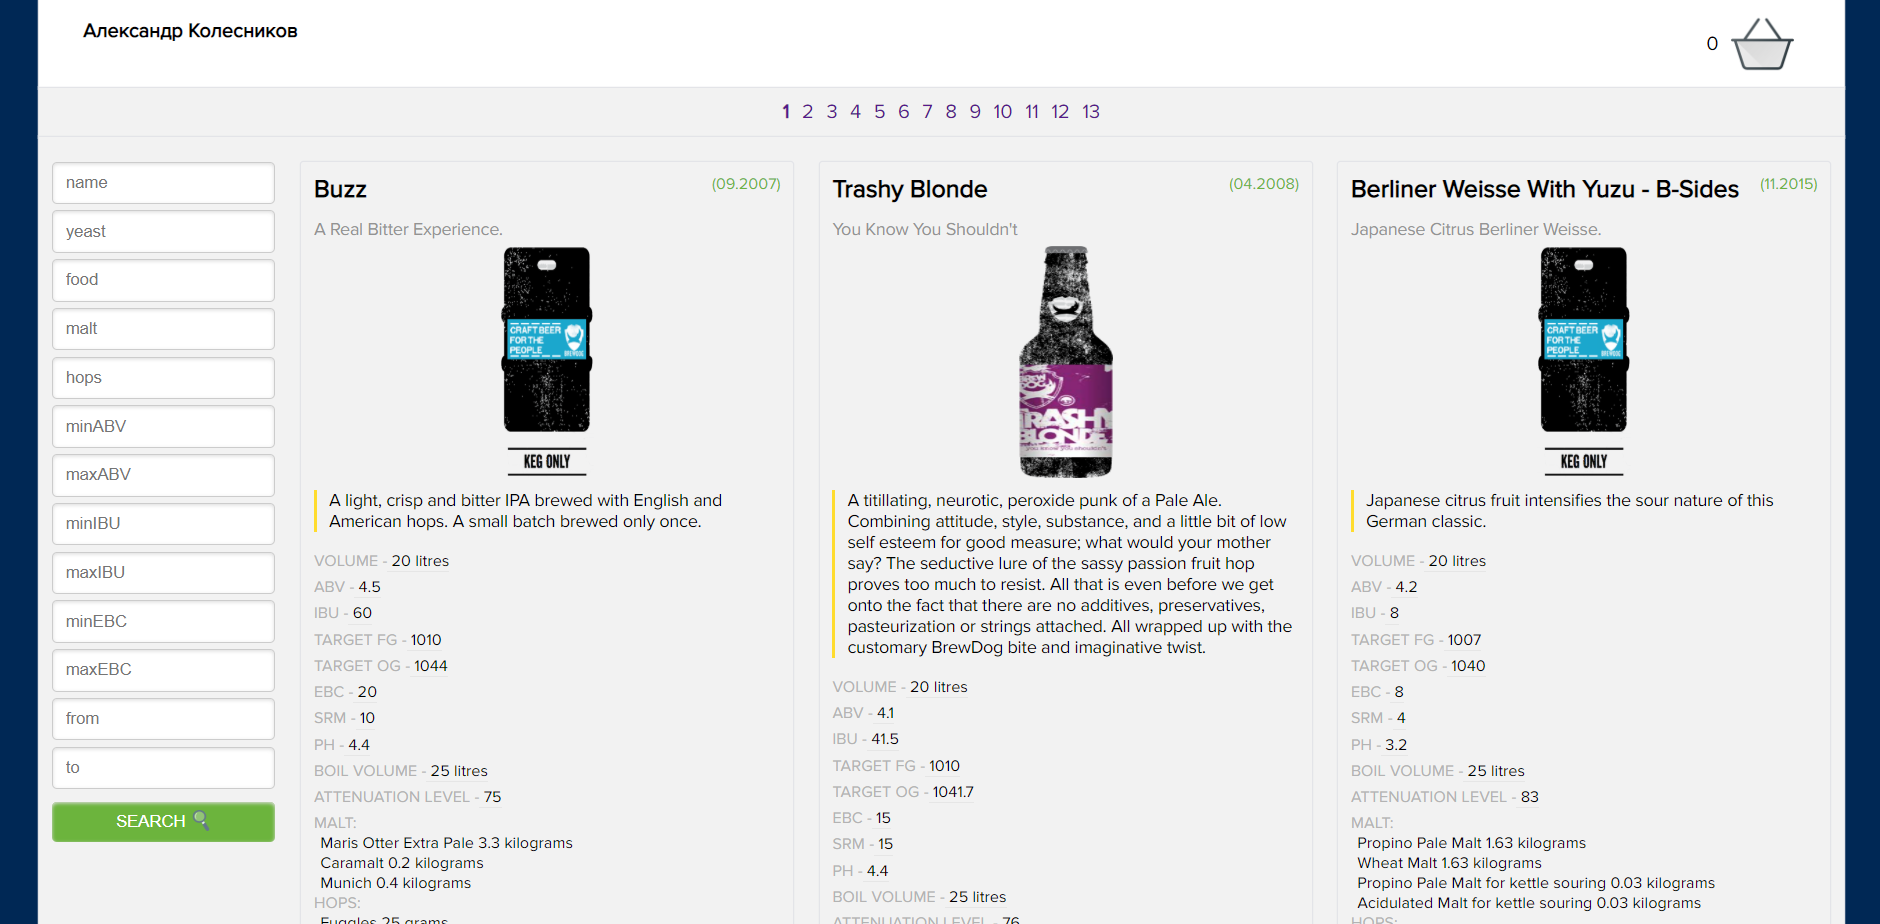
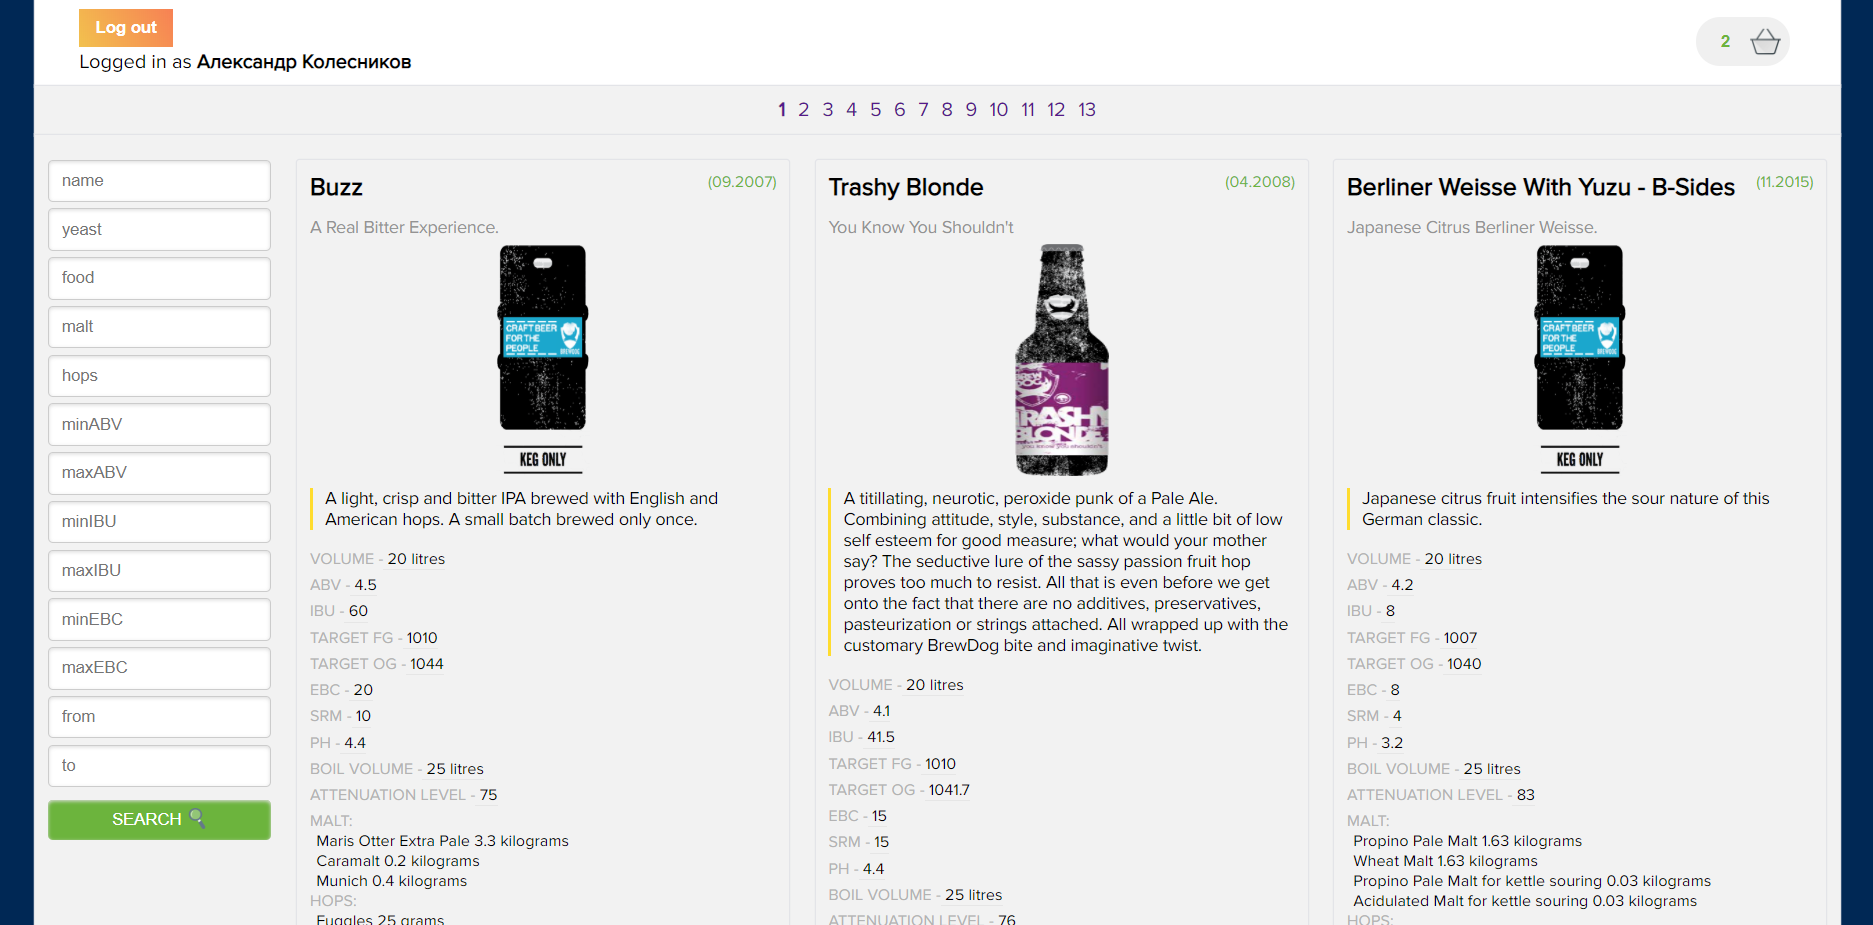
сделал возможным выход из системы

diff --git a/my-app/src/components/Navbar/NavbarContainer.tsx b/my-app/src/components/Navbar/NavbarContainer.tsx
@@ -3,7 +3,7 @@
 /* eslint-disable no-shadow */
 import React, { Component } from 'react';
 import { connect } from 'react-redux';
-import { setBasketStatusTC } from '../../redux/actions';
+import { setBasketStatusTC, logOutTC } from '../../redux/actions';
 import Navbar from './Navbar/Navbar';
 
 interface IProps {
@@ -12,12 +12,18 @@ interface IProps {
   basketList: Array<{id: number}>,
   loginStatus: boolean,
   loginName: null | string,
+  logOutTC: () => void,
 }
 
 class NavbarContainer extends Component <IProps> {
   onBasketClicked = () => {
     const { basketStatus, setBasketStatusTC } = this.props;
     setBasketStatusTC(!basketStatus);
+  }
+
+  onLogOut = () => {
+    const { logOutTC } = this.props;
+    logOutTC();
   }
 
   render() {
@@ -27,6 +33,7 @@ class NavbarContainer extends Component <IProps> {
       { length } = basketList;
     return (
       <Navbar
+        onLogOut={this.onLogOut}
         loginStatus={loginStatus}
         length={length}
         onBasketClicked={this.onBasketClicked}
@@ -46,4 +53,4 @@ const mapStateToProps = (
   loginName: name,
 });
 
-export default connect(mapStateToProps, { setBasketStatusTC })(NavbarContainer);
+export default connect(mapStateToProps, { setBasketStatusTC, logOutTC })(NavbarContainer);

diff --git a/my-app/src/redux/actions.js b/my-app/src/redux/actions.js
@@ -9,6 +9,7 @@ export const SET_CARDS_STATUS = 'SET-CARDS-STATUS',
   ADD_BASKET_PRODUCT = 'ADD-BASKET-PRODUCT',
   REMOVE_BASKET_PRODUCT = 'REMOVE-BASKET-PRODUCT',
   LOGIN = 'LOGIN',
+  LOGOUT = 'LOGOUT',
 
   setUsePageAC = (usePage) => ({ type: SET_USE_PAGE, usePage }),
   setPagesAC = (pagesList) => ({ type: SET_PAGES, pagesList }),
@@ -18,7 +19,12 @@ export const SET_CARDS_STATUS = 'SET-CARDS-STATUS',
   addBasketProductAC = (product) => ({ type: ADD_BASKET_PRODUCT, product }),
   removeBasketProductAC = (id) => ({ type: REMOVE_BASKET_PRODUCT, id }),
   loginAC = (name) => ({ type: LOGIN, name }),
+  logOutAC = () => ({ type: LOGOUT }),
 
+  logOutTC = () => async (dispatch) => {
+    localStorage.removeItem('beers-login');
+    dispatch(logOutAC());
+  },
   setBasketStatusTC = (newBasketStatus) => async (dispatch) => {
     dispatch(setBasketStatusAC(newBasketStatus));
     localStorage.setItem('basket-status', JSON.stringify(newBasketStatus));

diff --git a/my-app/src/components/Navbar/Navbar/Navbar.tsx b/my-app/src/components/Navbar/Navbar/Navbar.tsx
@@ -10,6 +10,7 @@ interface IProps {
   basketStatus: boolean,
   loginStatus: boolean,
   loginName: null | string,
+  onLogOut: () => void,
 }
 
 const Navbar = ({
@@ -18,12 +19,21 @@ const Navbar = ({
   basketStatus,
   loginStatus,
   loginName,
+  onLogOut,
 }:IProps) => (
   <div className={style.navbar}>
     {
       loginStatus ? (
         <>
-          <span className={style.navbarName}>{ loginName }</span>
+          <div className={style.navbarLogin}>
+            <button className={style.navbarLogout} type="button" onClick={onLogOut}>Log out</button>
+            <div>
+              Logged in as
+              <span className={style.navbarName}>
+                {` ${loginName}`}
+              </span>
+            </div>
+          </div>
 
           <button type="button" className={style.navbarBasket} onClick={onBasketClicked}>
             { length }

diff --git a/my-app/src/redux/reducer.js b/my-app/src/redux/reducer.js
@@ -8,6 +8,7 @@ import {
   ADD_BASKET_PRODUCT,
   REMOVE_BASKET_PRODUCT,
   LOGIN,
+  LOGOUT,
 } from './actions';
 
 
@@ -31,7 +32,17 @@ const initialState = {
 };
 
 const reducer = (state = initialState, action) => {
+  // console.log(action);
   switch (action.type) {
+    case LOGOUT:
+      return {
+        ...state,
+        login: {
+          ...state.login,
+          status: false,
+          name: null,
+        },
+      };
     case LOGIN:
       return {
         ...state,

diff --git a/my-app/src/components/Navbar/Navbar/Navbar.module.css b/my-app/src/components/Navbar/Navbar/Navbar.module.css
@@ -39,5 +39,19 @@
 
 .navbarName {
   font-weight: bold;
+}
+
+.navbarLogin {
   margin: 0 5px 0 35px;
+}
+
+.navbarLogout {
+  display: flex;
+  min-width: 75px;
+  padding: 7px 7px 7px 13px;
+  border: none;
+  color: white;
+  font-weight: bold;
+  background: linear-gradient(60deg, #F2C14E, #F78154);
+  margin-bottom: 3px;
 }

diff --git a/my-app/src/index.css b/my-app/src/index.css
@@ -40,5 +40,6 @@ button {
 
 button:hover {
   opacity: 0.8;
+  cursor: pointer;
   transition: opacity 0.3s ease-in-out;
 }
